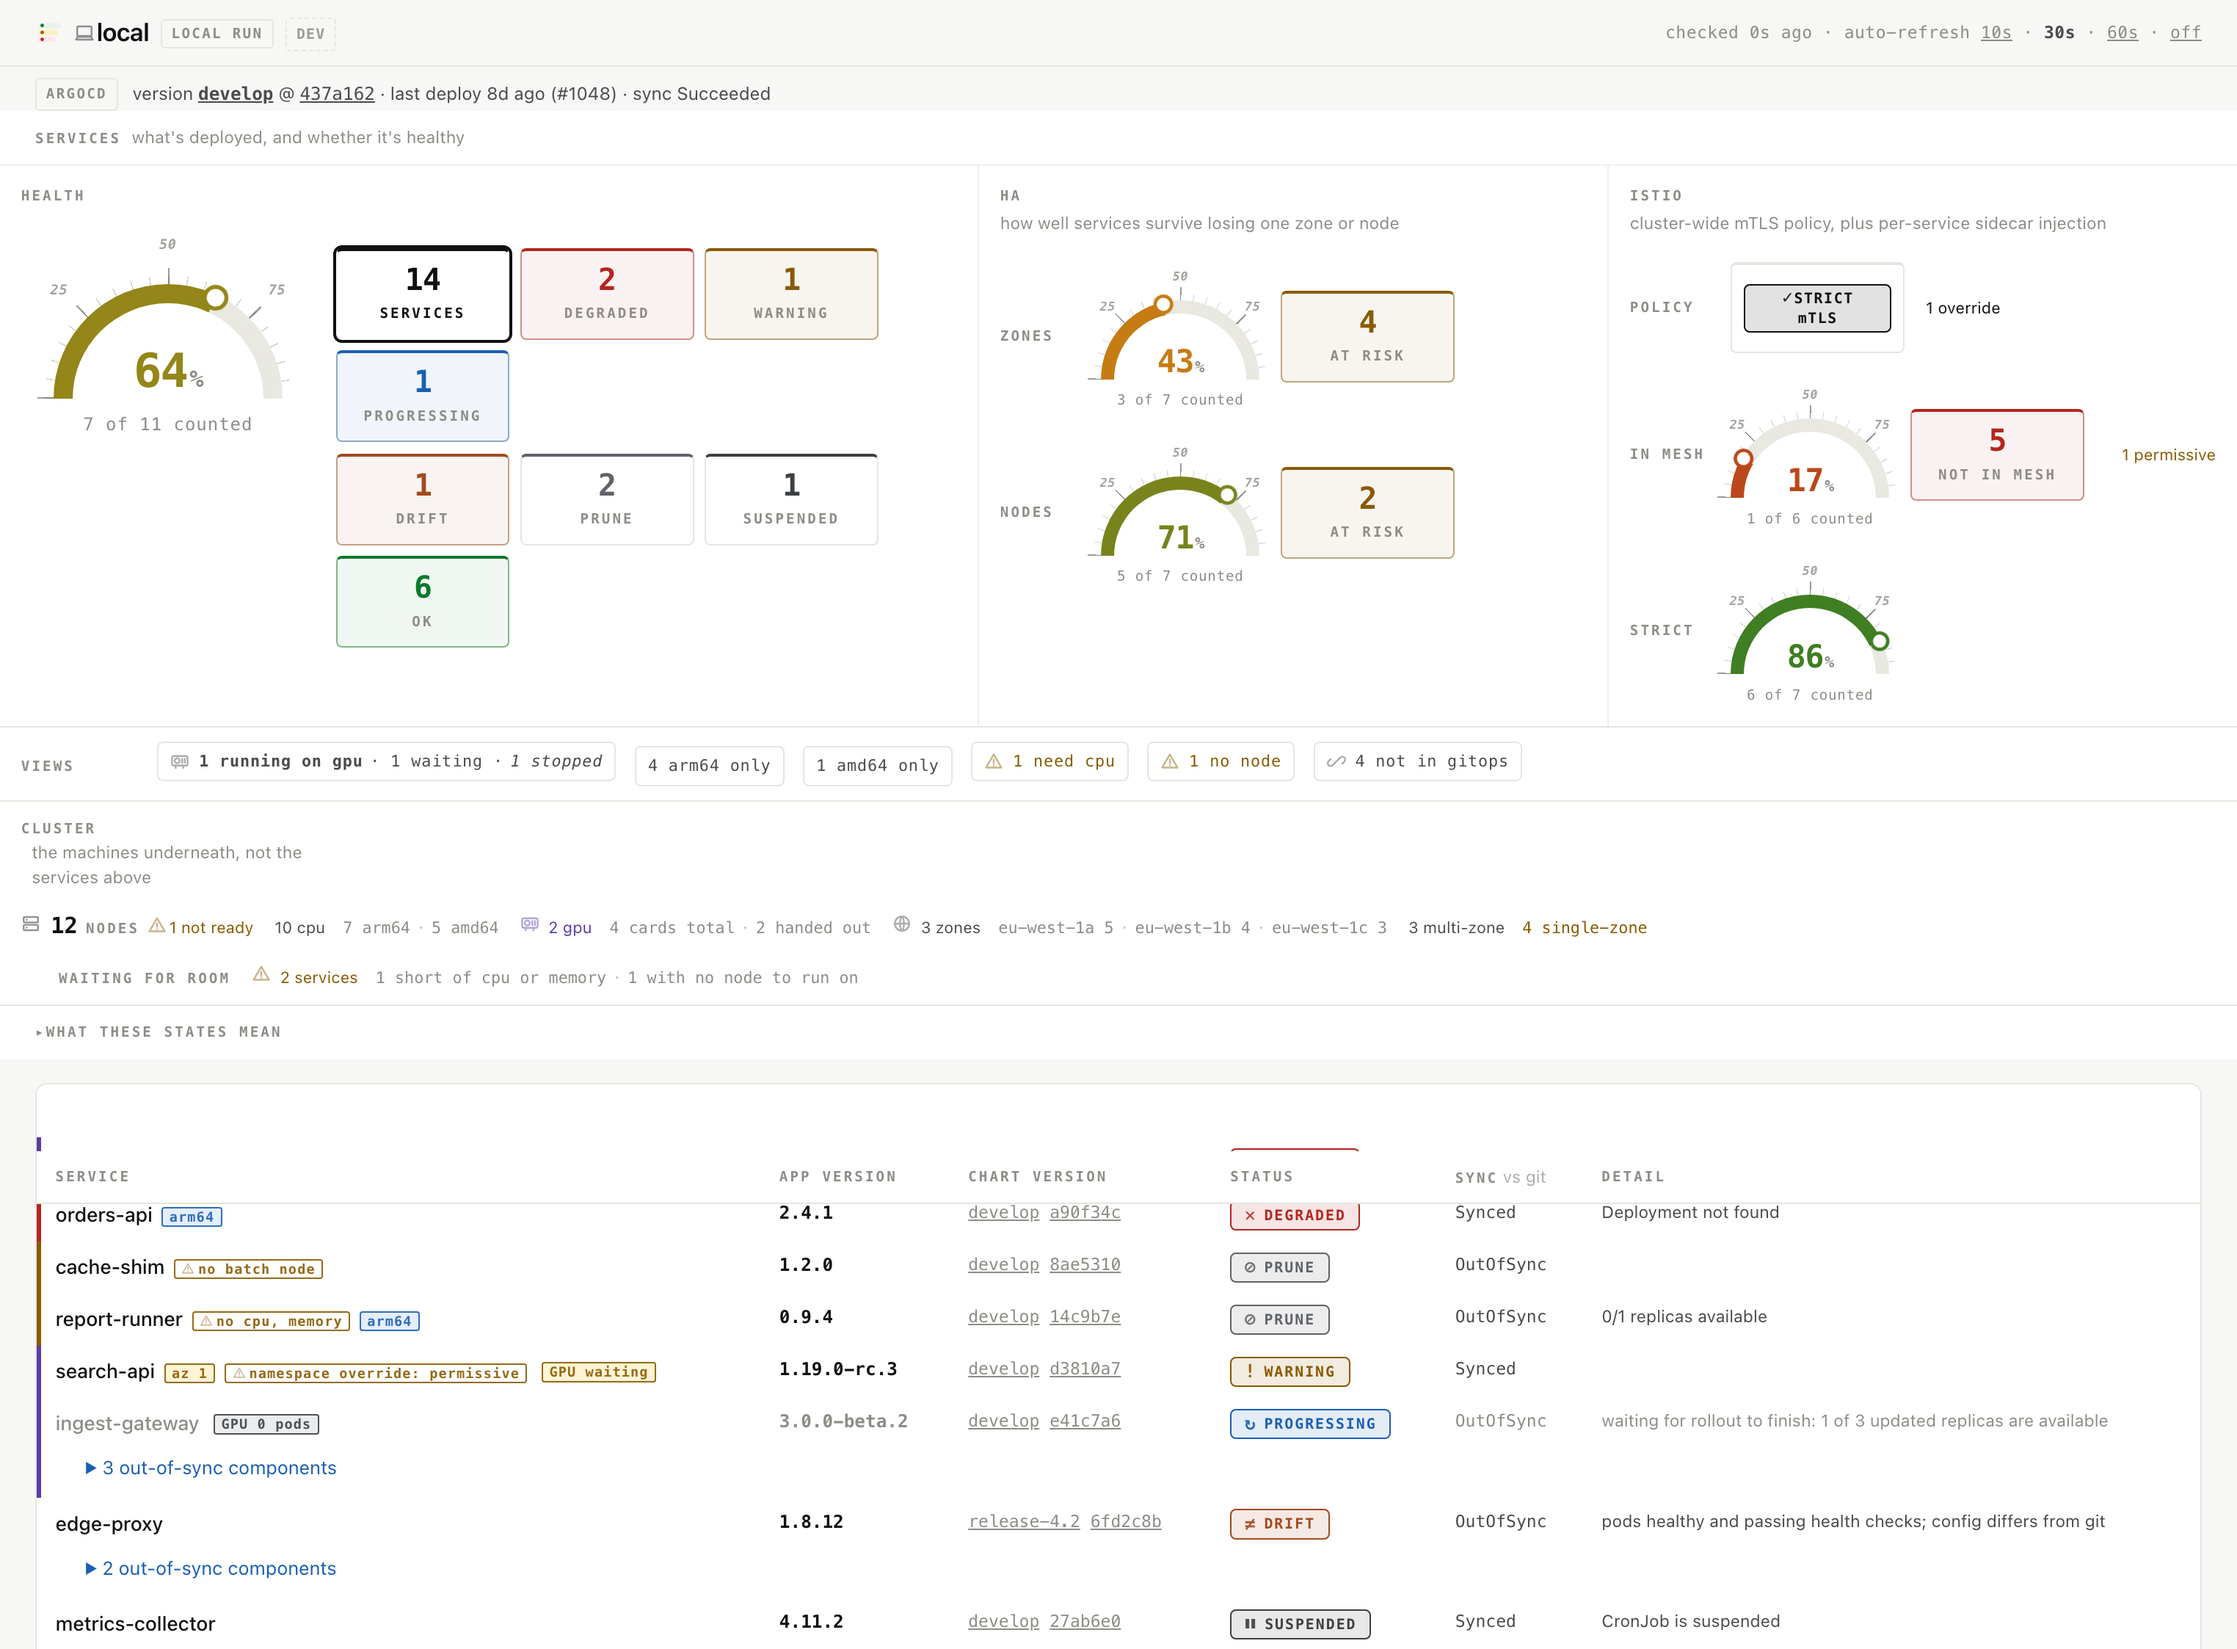
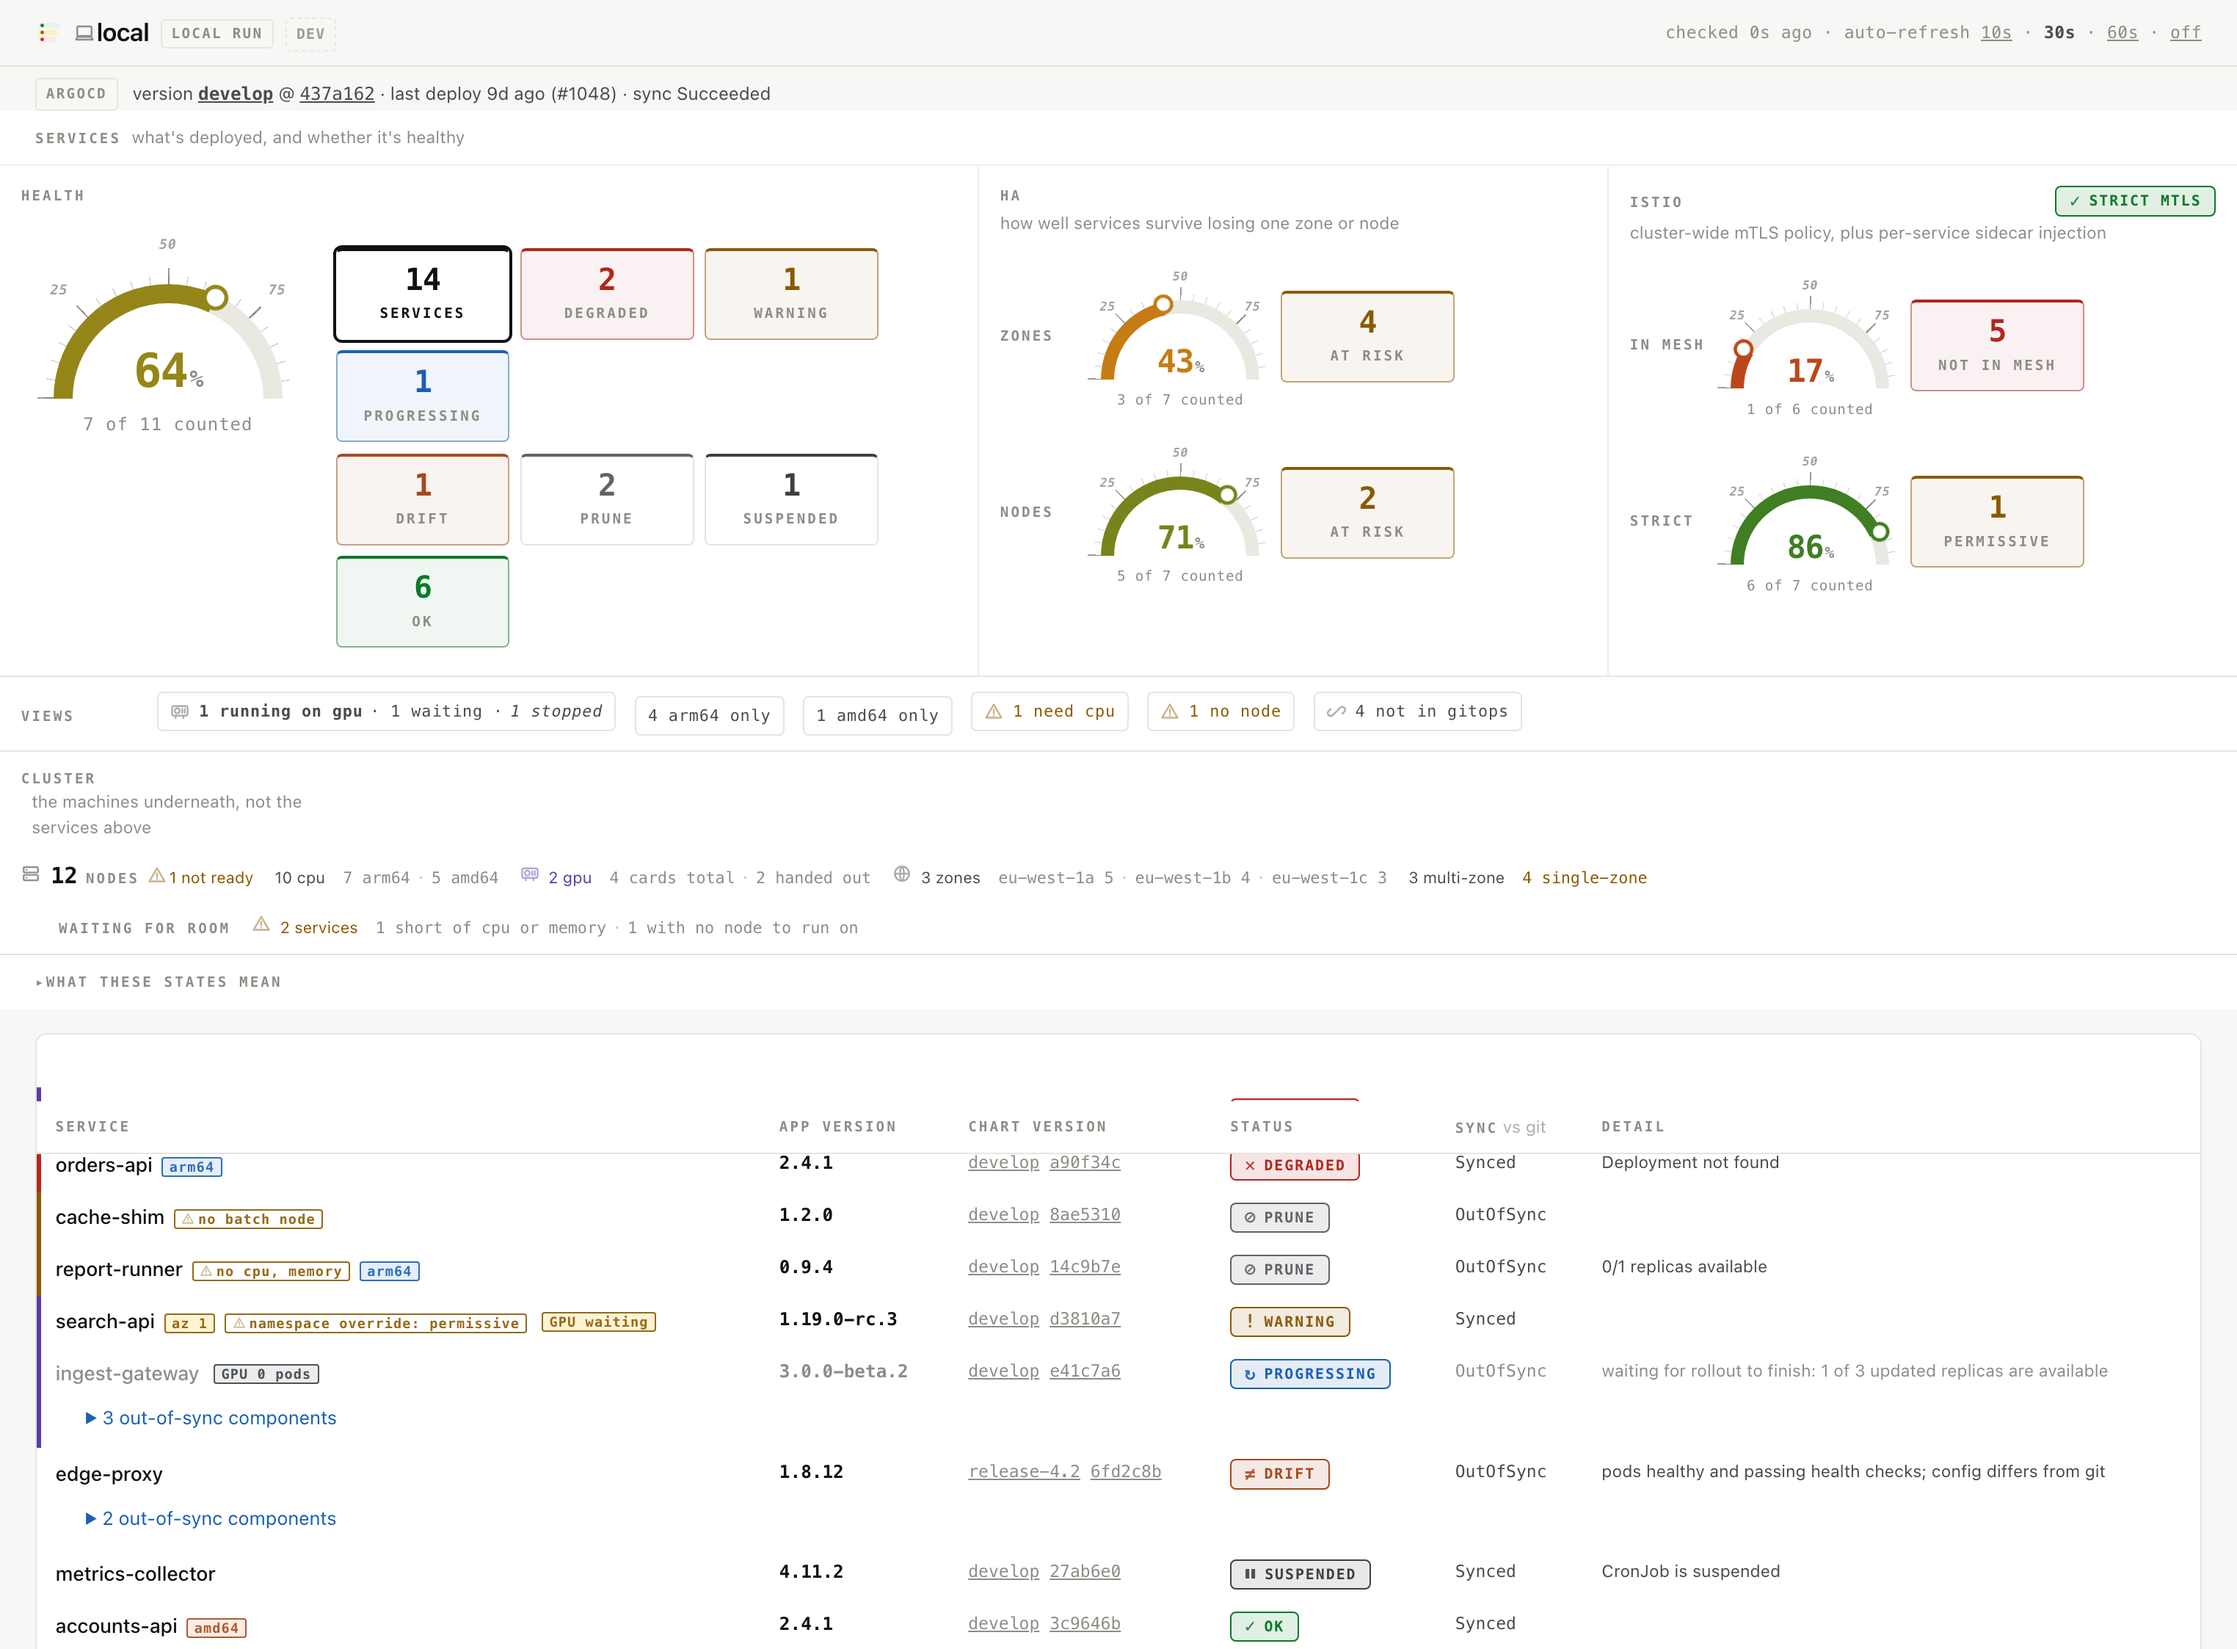
fix: move Policy pill to the panel header, drop its own row
The Policy row was the one thing keeping the Istio area from matching
HA's shape (label, gauge, one tile per row). The pill moves to the
title line instead -- right-aligned beside "Istio", single-line now
that it's out of the fixed-width cell context that forced it to wrap
-- and "permissive" becomes the Strict row's own tile, the same way
"at risk" pairs with HA's Zones/Nodes gauges. Istio is now exactly
two rows, both the same shape as HA's.

Workload-scoped and override-count details that used to be separate
visible badges are folded into the pill's own tooltip instead of
dropped.

diff --git a/internal/web/templates/index.html b/internal/web/templates/index.html
@@ -576,19 +576,12 @@ h1 { font-size: 1.05rem; letter-spacing: -.015em; }
    to its own line reads fine, it is just a quiet aside either way. */
 .ha-rows .tiles-row { flex-wrap: wrap; }
 .tiles { gap: .45rem; }
-/* A lightweight text note, not a bordered tile: .cap-part.is-warn already exists
-   for the "workload-scoped"/"N overrides" notes elsewhere in this row, but only had
-   colour inside .cap-of's own context (the Cluster band) -- outside it, "is-warn"
-   was a no-op. push-right is the flex "pin to the far end of the row" trick, for
-   the permissive note sitting past the gauge and its tile on the same line. */
+/* .cap-part.is-warn ("not ready", "no cpu", ...) only had colour inside .cap-of's
+   own context (the Cluster band) -- outside it, "is-warn" was a no-op. */
 .cap-part { font-size: .68rem; }
 .cap-part.is-warn { color: var(--warn-fg); }
 a.cap-part { text-decoration: none; }
 a.cap-part:hover { text-decoration: underline; }
-/* min-width: 0, not the flex default of auto -- without it this text refuses to
-   wrap when the row runs out of room and gets clipped at the area's edge instead
-   of breaking onto a second line. */
-.push-right { margin-left: auto; min-width: 0; text-align: right; }
 .spread-lab { align-self: center; margin-top: 0; width: 3.4rem; }
 
 /* Tiles: fixed cell, hairline box, 2px state rule. The stock .t-* rules set
@@ -786,21 +779,13 @@ tbody.svc.is-gpu td:first-child { box-shadow: inset 3px 0 0 var(--gpu-fg); }
 .blocked.is-accelerator { color: var(--gpu-fg); }
 .members, .src { color: var(--muted); }
 
-/* Istio's Policy row: a pill where its siblings have a gauge. Same cell as a tile,
-   with the mode wrapping onto two lines instead of forcing the box wide. */
-.area .cap-lead {
-  flex: none; width: var(--cell-w); height: var(--cell-h); box-sizing: border-box;
-  align-items: center; justify-content: center; gap: 0;
-  padding: .4rem .5rem; border: 1px solid var(--hair);
-  border-top: 2px solid var(--hair); border-radius: 4px; background: var(--surface);
-}
-.area .cap-lead .pill {
-  display: block; text-align: center; white-space: normal; word-break: break-word;
-  font-size: .62rem; line-height: 1.35; letter-spacing: .08em; color: var(--ink);
-}
-.area .cap-lead .ic, .area .cap-lead svg { display: none; }
 /* Gauges are cells too — same height, so a row reads as one band. */
 .tiles-row > .gauge { flex: none; }
+/* Istio's Policy pill sits on the title line now, right-aligned, not its own row
+   below -- the wrapper is a span, not the .cap-head div itself, so .cap-sub still
+   sits on its own line underneath exactly like every other area's header. */
+.cap-head-row { display: flex; align-items: baseline; justify-content: space-between; gap: .5rem; }
+.cap-head-badge { flex: none; }
 
 /* Legend + sections. */
 .legend { margin-bottom: 0; }
@@ -954,33 +939,27 @@ footer { font-family: var(--mono); font-size: .64rem; letter-spacing: .04em; }
 </div>
 {{if $.Snapshot.Mesh}}
 <div class="area">
-  <div class="cap-head">Istio<span class="cap-sub">cluster-wide mTLS policy, plus per-service sidecar injection</span></div>
+  {{/* The Policy pill lives on the title line now, right-aligned, not as its own
+       row below: a cluster-wide fact reads as a header-level annotation, and it
+       keeps the rows underneath exactly HA's shape -- label, gauge, one tile. */}}
+  <div class="cap-head">
+    <span class="cap-head-row">Istio{{with $.Snapshot.Mesh}}{{if not .Error}}<span class="pill s-{{lower (printf "%s" .State)}} cap-head-badge" title="The cluster-wide default. Namespace and workload PeerAuthentications can override this for individual services -- when AZ_SPREAD is also on, the &quot;permissive&quot; tile below and each row's own badge show where they do.{{if .Scoped}} The default PeerAuthentication object itself also carries a selector, so it applies to one workload, not the whole mesh.{{end}}"><span class="g">{{glyph (printf "%s" .State)}}</span>
+      {{- if eq .Effective "strict"}}STRICT mTLS
+      {{- else if eq .Effective "permissive"}}PERMISSIVE mTLS
+      {{- else if eq .Effective "disabled"}}mTLS disabled
+      {{- else}}No service mesh detected{{end -}}
+    </span>{{end}}{{end}}</span>
+    <span class="cap-sub">cluster-wide mTLS policy, plus per-service sidecar injection</span>
+  </div>
+  {{with $.Snapshot.Mesh}}{{if .Error}}
+  <div class="cap-note">
+    {{- if .Denied}}mesh mTLS needs a Role granting <span class="mono">get</span> on the <span class="mono">default</span> <span class="mono">peerauthentications.security.istio.io</span> object in the Istio namespace; the default install grants nothing there.
+    {{- else}}the mesh mTLS read did not complete, so this may be out of date.{{end}} ({{.Error}})
+  </div>
+  {{end}}{{end}}
   <div class="ha-rows">
-    {{/* Two rows, like HA's Zones/Nodes, not one merged row: same label-plus-content
-         rhythm reads as the same kind of thing at a glance. */}}
-    {{with $.Snapshot.Mesh}}
-    <div class="tiles-row is-top">
-      <span class="spread-lab" title="The cluster-wide default. Namespace and workload PeerAuthentications can override this for individual services -- when AZ_SPREAD is also on, the permissive tile and each row's own badge below show where they do.">Policy</span>
-      {{if not .Error}}
-      <div class="cap-lead">{{icon "mesh"}}<span class="pill s-{{lower (printf "%s" .State)}}"><span class="g">{{glyph (printf "%s" .State)}}</span>
-        {{- if eq .Effective "strict"}}STRICT mTLS
-        {{- else if eq .Effective "permissive"}}PERMISSIVE mTLS
-        {{- else if eq .Effective "disabled"}}mTLS disabled
-        {{- else}}No service mesh detected{{end -}}
-      </span></span>
-      {{- if .Scoped}}<span class="cap-part is-warn" title="The default PeerAuthentication object carries a selector, so it applies to one workload, not the whole mesh.">{{icon "warn"}}workload-scoped</span>{{end}}
-      </div>
-      {{- if $.Snapshot.Summary.MeshPolicyPermissive}}<span class="cap-part" title="{{$.Snapshot.Summary.MeshPolicyPermissive}} service{{if ne $.Snapshot.Summary.MeshPolicyPermissive 1}}s{{end}} carry their own namespace- or workload-level PeerAuthentication override, not just the cluster-wide default above.">{{$.Snapshot.Summary.MeshPolicyPermissive}} override{{if ne $.Snapshot.Summary.MeshPolicyPermissive 1}}s{{end}}</span>{{end}}
-      {{else}}
-      <div class="cap-note">
-        {{- if .Denied}}mesh mTLS needs a Role granting <span class="mono">get</span> on the <span class="mono">default</span> <span class="mono">peerauthentications.security.istio.io</span> object in the Istio namespace; the default install grants nothing there.
-        {{- else}}the mesh mTLS read did not complete, so this may be out of date.{{end}} ({{.Error}})
-      </div>
-      {{end}}
-    </div>
-    {{end}}
     {{with $.Snapshot.MeshHA}}
-    <div class="tiles-row">
+    <div class="tiles-row is-top">
       <span class="spread-lab" title="Sidecar injection only: a service having the sidecar on every running pod is not the same as mTLS being enforced for it. An Istio ingress gateway reads as 'in mesh' too, but that's its own Envoy engine, not an injected sidecar -- gateways are never sidecar-injected by design.">In mesh</span>
       <div class="gauge{{if not .Known}} is-unknown{{end}}"{{if .Known}} style="--pct: {{.Percent}}"{{end}} title="{{if .Known}}{{.Percent}}% of mesh-eligible services carry the Istio sidecar on every running pod &middot; {{.Injected}} of {{.Eligible}} counted{{if .NotInMesh}} &middot; {{.NotInMesh}} not in mesh{{end}}{{else}}no services counted{{end}}">
         <div class="hd-face">
@@ -1001,14 +980,11 @@ footer { font-family: var(--mono); font-size: .64rem; letter-spacing: .04em; }
       {{else if .Known}}
       <div class="tile t-ok"><div class="n">0</div><div class="k">not in mesh</div></div>
       {{end}}
-      {{if $.Snapshot.Summary.MeshPolicyPermissive}}
-      <a class="cap-part is-warn push-right{{if $.FilterActive "mesh" "permissive"}} is-on{{end}}" href="{{$.FilterHref "mesh" "permissive"}}" title="{{$.Snapshot.Summary.MeshPolicyPermissive}} service{{if ne $.Snapshot.Summary.MeshPolicyPermissive 1}}s{{end}} whose own effective mTLS mode is PERMISSIVE, across both services and not-in-gitops workloads -- from a namespace- or workload-level override, or because the mesh-wide default itself is PERMISSIVE. Click to show which.">{{$.Snapshot.Summary.MeshPolicyPermissive}} permissive</a>
-      {{end}}
     </div>
     {{end}}
     {{with $.Snapshot.MeshPolicyHA}}
     <div class="tiles-row">
-      <span class="spread-lab" title="Effective policy only, the same per-service answer the &quot;permissive&quot; note above reads -- not sidecar injection. A service counts here if AZ_SPREAD and mesh mTLS are both on and it resolved to an effective mode; DISABLE is not tracked per-service, so this is permissive vs. everything else, not a three-way severity ranking.">Strict</span>
+      <span class="spread-lab" title="Effective policy only -- not sidecar injection. A service counts here if AZ_SPREAD and mesh mTLS are both on and it resolved to an effective mode; DISABLE is not tracked per-service, so this is permissive vs. everything else, not a three-way severity ranking.">Strict</span>
       <div class="gauge{{if not .Known}} is-unknown{{end}}"{{if .Known}} style="--pct: {{.Percent}}"{{end}} title="{{if .Known}}{{.Percent}}% of policy-eligible services are NOT permissive &middot; {{.Compliant}} of {{.Eligible}} counted{{if .Permissive}} &middot; {{.Permissive}} permissive{{end}}{{else}}no services counted{{end}}">
         <div class="hd-face">
           <div class="hd-arc"></div>
@@ -1023,6 +999,11 @@ footer { font-family: var(--mono); font-size: .64rem; letter-spacing: .04em; }
         </div>
         <span class="hd-cap">{{if .Known}}{{.Compliant}} of {{.Eligible}} counted{{else}}no services counted{{end}}</span>
       </div>
+      {{if .Permissive}}
+      <a class="tile t-warning{{if $.FilterActive "mesh" "permissive"}} is-on{{end}}" href="{{$.FilterHref "mesh" "permissive"}}" title="{{.Permissive}} service{{if ne .Permissive 1}}s{{end}} whose own effective mTLS mode is PERMISSIVE, across both services and not-in-gitops workloads -- from a namespace- or workload-level override, or because the mesh-wide default itself is PERMISSIVE. Click to show which."><div class="n">{{.Permissive}}</div><div class="k">permissive</div></a>
+      {{else if .Known}}
+      <div class="tile t-ok"><div class="n">0</div><div class="k">permissive</div></div>
+      {{end}}
     </div>
     {{end}}
   </div>
